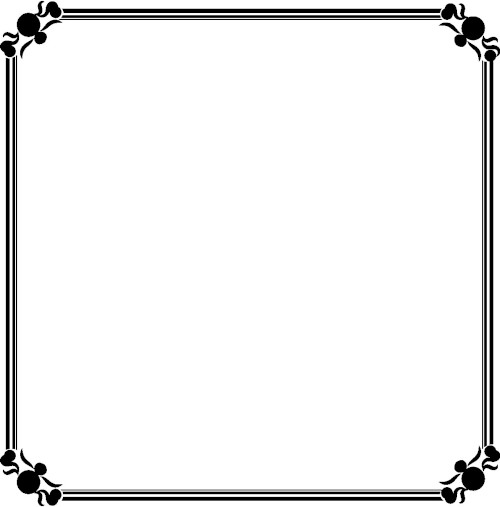
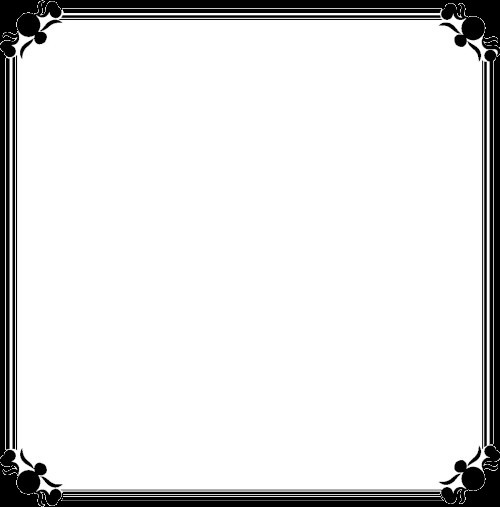
images fixed

Changed region(s): [[0.0, 0.0, 1.0, 1.0]]

diff --git a/src/arrays.js b/src/arrays.js
@@ -173,7 +173,7 @@ const ghostKillerArray = [
     name: 'Frankenstein',
     color: 'Blå',
     image: [{
-      src: './images/personer/frankenstein.jpg',
+      src: './images/personer/frankenstein.png',
       alt: 'tecknad bild av Frankensteins monster',
     }],
     about:
@@ -185,7 +185,7 @@ const ghostKillerArray = [
     age: 69,
     color: 'Gul',
     image: [{
-      src: './images/personer/dracula.jpg',
+      src: './images/personer/dracula.png',
       alt: 'tecknad bild av dracula',
     }],
     about: 'Greve Dracula, en riktigt blodtörstig typ som älskar rött och hatar gult.',
@@ -196,7 +196,7 @@ const ghostKillerArray = [
     age: 39,
     color: 'Grön',
     image: [{
-      src: 'images/personer/djavul.jpg',
+      src: 'images/personer/djavul.png',
       alt: 'tecknad bild av en djävul',
     }],
     about:
@@ -208,7 +208,7 @@ const ghostKillerArray = [
     age: 23,
     color: 'Röd',
     image: [{
-      src: './images/personer/haxa.jpg',
+      src: './images/personer/haxa.png',
       alt: 'tecknad bild av en häxa',
     }],
     about:
@@ -220,7 +220,7 @@ const ghostKillerArray = [
     age: 18,
     color: 'Rosa',
     image: [{
-      src: './images/personer/mumie.jpg',
+      src: './images/personer/mumie.png',
       alt: 'tecknad bild av en mumie',
     }],
     about:
@@ -232,7 +232,7 @@ const ghostKillerArray = [
     age: 42,
     color: 'Plommon',
     image: [{
-      src: './images/personer/spoke.jpg',
+      src: './images/personer/spoke.png',
       alt: 'tecknad bild av ett spöke',
     }],
     about:
@@ -244,42 +244,42 @@ const ghostPlacesArray = [
   {
     place: 'Biblioteket',
     image: [{
-      src: './images/platser/bibliotek.jpg',
+      src: './images/platser/bibliotek.png',
       alt: 'tecknad bild av ett bibliotek',
     }],
   },
   {
     place: 'Experimentsalen',
     image: [{
-      src: './images/platser/experimentsal.jpg',
+      src: './images/platser/experimentsal.png',
       alt: 'tecknad bild av en experimentsal',
     }],
   },
   {
     place: 'Hallen',
     image: [{
-      src: './images/platser/hall.jpg',
+      src: './images/platser/hall.png',
       alt: 'tecknad bild av en hall',
     }],
   },
   {
     place: 'Köket',
     image: [{
-      src: './images/platser/kok.jpg',
+      src: './images/platser/kok.png',
       alt: 'tecknad bild av ett kök',
     }],
   },
   {
     place: 'Laboratorium',
     image: [{
-      src: './images/platser/laboratorium.jpg',
+      src: './images/platser/laboratorium.png',
       alt: 'tecknad bild av laboratorium',
     }],
   },
   {
     place: 'Vardagsrum',
     image: [{
-      src: './images/platser/vardagsrum.jpg',
+      src: './images/platser/vardagsrum.png',
       alt: 'tecknad bild av vardagsrum',
     }],
   },
@@ -290,7 +290,7 @@ const ghostWeaponsArray = [
     id: 1,
     weapon: 'Dödshand',
     image: [{
-      src: './images/vapen/dodshand.jpg',
+      src: './images/vapen/dodshand.png',
       alt: 'tecknad bild av hand',
     }],
   },
@@ -298,7 +298,7 @@ const ghostWeaponsArray = [
     id: 2,
     weapon: 'Gift',
     image: [{
-      src: './images/vapen/gift.jpg',
+      src: './images/vapen/gift.png',
       alt: 'tecknad bild av en gryta med gift',
     }],
   },
@@ -306,7 +306,7 @@ const ghostWeaponsArray = [
     id: 3,
     weapon: 'Förgiftat godis',
     image: [{
-      src: './images/vapen/godis.jpg',
+      src: './images/vapen/godis.png',
       alt: 'teckand bild av förgiftat godis',
     }],
   },
@@ -314,7 +314,7 @@ const ghostWeaponsArray = [
     id: 4,
     weapon: 'Gravsten',
     image: [{
-      src: './images/vapen/gravsten.jpg',
+      src: './images/vapen/gravsten.png',
       alt: 'tecknad bild av gravsten',
     }],
   },
@@ -322,7 +322,7 @@ const ghostWeaponsArray = [
     id: 5,
     weapon: 'Häxhatt',
     image: [{
-      src: './images/vapen/hatt.jpg',
+      src: './images/vapen/hatt.png',
       alt: 'tecknad bild av en häxhatt',
     }],
   },
@@ -330,7 +330,7 @@ const ghostWeaponsArray = [
     id: 6,
     weapon: 'Häxkvast',
     image: [{
-      src: './images/vapen/kvarst.jpg',
+      src: './images/vapen/kvast.png',
       alt: 'tecknad bild av en häxkvast',
     }],
   },

diff --git a/src/style/_mobile.scss b/src/style/_mobile.scss
@@ -12,7 +12,7 @@
   text-size-adjust: 100%;
 }
 @mixin result-gameover{
-  background-image: url('/images/card.jpg');
+  background-image: url('/images/card.png');
   background-repeat: no-repeat;
   background-size: 100%;
   flex-direction: column;
@@ -26,7 +26,7 @@
 @mixin textbox-clue {
   flex-direction: column;
   align-items: center;
-  background-image: url('/images/card.jpg');
+  background-image: url('/images/card.png');
   background-size: 100%;
   background-repeat: no-repeat;
   height: 55vh;
@@ -40,6 +40,7 @@
 @mixin buttons {
   background-color: rgba(100, 91, 116, 90%);
   color: white;
+  text-align: center;
   
 }
 
@@ -58,10 +59,40 @@
 /************************************************************************
  *                               Regler för startsida                 
  ************************************************************************/
+.entrypage {
+  align-items: center;
+  min-height: 100vh;
+  background: url('/images/entrypage.png');
+  background-repeat: no-repeat;
+  background-size: 400px 400px;
+  background-position: center;
+
+
+  .choose-game {
+    display: inline-flex;
+    flex-direction: column;
+    align-items: center;
+    height: 50vh;
+    width: 60vw;
+    margin-top: 10%;
+    background-color: rgba($color: #484747, $alpha: 60%);
+    color: #242424;
+    text-align: center;
+    padding: 5% 2%;
+  }
+
+  #ghost, #horse {
+    @include buttons;
+
+    margin-top: 5%;
+
+  }
+}
+
 .startpage-horse {
   align-items: center;
   min-height: 100vh;
-  background-image: url('./images/backgroundimage-small.jpg');
+  background-image: url('/images/backgroundimage-small.jpg');
   background-repeat: no-repeat;
 
   .game-intro {
@@ -84,11 +115,14 @@
 
   }
 }
+
 .startpage-ghost {
   align-items: center;
   min-height: 100vh;
-  background-image: url('./images/scarycastle-small.jpg');
+  background-image: url('/images/scarycastle-small.jpg');
   background-repeat: no-repeat;
+  background-size: cover;
+
 
   .game-intro {
     display: inline-flex;
@@ -135,6 +169,9 @@
 
 .selectionpage-ghost{
   background-color: #6f82ae;
+  min-height: 100vh;
+
+
 }
 
 .play-intro span {

diff --git a/src/main.js b/src/main.js
@@ -17,7 +17,8 @@ const entryPage = document.querySelector('.entrypage');
 const startPageHorse = document.querySelector('.startpage-horse');
 const startPageGhost = document.querySelector('.startpage-ghost');
 
-const beginGhostGame = document.querySelector('.ghost');
+const beginGhostGame = document.querySelector('#ghost');
+const beginHorseGameBtn = document.querySelector('#horse');
 const beginGameBtnHorse = document.querySelector('.begin-game-horse');
 const beginGameBtnGhost = document.querySelector('.begin-game-ghost');
 
@@ -106,7 +107,7 @@ function startRandomGame() {
 /**
  * Välj hästspel
  */
-const beginHorseGameBtn = document.querySelector('#horse');
+beginHorseGameBtn.addEventListener('click', gameStartStable);
 
 beginHorseGameBtn.addEventListener('click', () => {
   killersArray = horseKillersArray;
@@ -124,7 +125,6 @@ function gameStartStable() {
 /*
  *Välj spökspel
  */
-beginHorseGameBtn.addEventListener('click', gameStartStable);
 
 beginGhostGame.addEventListener('click', () => {
   killersArray = ghostKillerArray;

diff --git a/src/style.scss b/src/style.scss
@@ -1,16 +1,19 @@
-@use 'utils/a11y'; // Om det inte funkar, byt @use mot @import
+/* stylelint-disable import-notation */
+/* stylelint-disable no-invalid-position-at-import-rule */
+@use 'utils/a11y'; 
 @use 'vendor/reset';
 
 
+@media only screen and (min-width:350px) {
+@import "style/_mobile.scss"
+};
 
-@media screen and (min-width:350px) {
-  @import 'style/_mobile.scss';
-}
+@media only screen and (max-width:1000px) {
+  @import 'style/_tablet.scss'
+};
 
-@media screen and (min-width:600px) {
-  @import 'style/_tablet.scss';
-}
+@media only screen and (min-width:1000px) {
+  @import 'style/_desktop.scss'
+};
 
-@media screen and (min-width: 1000px) {
-  @import 'style/_desktop.scss';
-}
+

diff --git a/src/style/_desktop.scss b/src/style/_desktop.scss
@@ -8,14 +8,14 @@
 
 @mixin text-clue-boxes{
     width: 25vw;
-    margin-left: 62vh;
+    margin-left: 43vh;
     margin-top: 10vh;
 }
 
-.startpage {
-  background-image: url('/images/background-image-large.jpg');
+.startpage-horse {
+  background-image: url('/public/images/background-image-large.jpg');
   background-repeat: no-repeat;
-  background-size: fit;
+  background-size: cover;
 
   .game-intro {
     margin-bottom: 15%;
@@ -31,7 +31,7 @@
   @include text-clue-boxes;
 
   .killer-text {
-    margin-top: 10vh;
+    margin-top: 5vh;
   }
 
   #close-text {

diff --git a/index.html b/index.html
@@ -21,7 +21,7 @@
       <article class="choose-game">
         <h1>Välkommen till Clue, spelet för alla amatördetektiver!</h1>
         <p>Välj din miljö</p>
-        <button class="ghost">Spökslottet Ghosthall</button>
+        <button id="ghost">Spökslottet Ghosthall</button>
         <button id="horse" >Stall Guldhoven</button>
       </article>
       </section>

diff --git a/src/style/_tablet.scss b/src/style/_tablet.scss
@@ -1,5 +1,5 @@
 .startpage {
-  background-image: url('/images/background-image-large.jpg');
+  background-image: url('/public/images/background-image-large.jpg');
   background-repeat: no-repeat;
   background-size: fit;
 }
